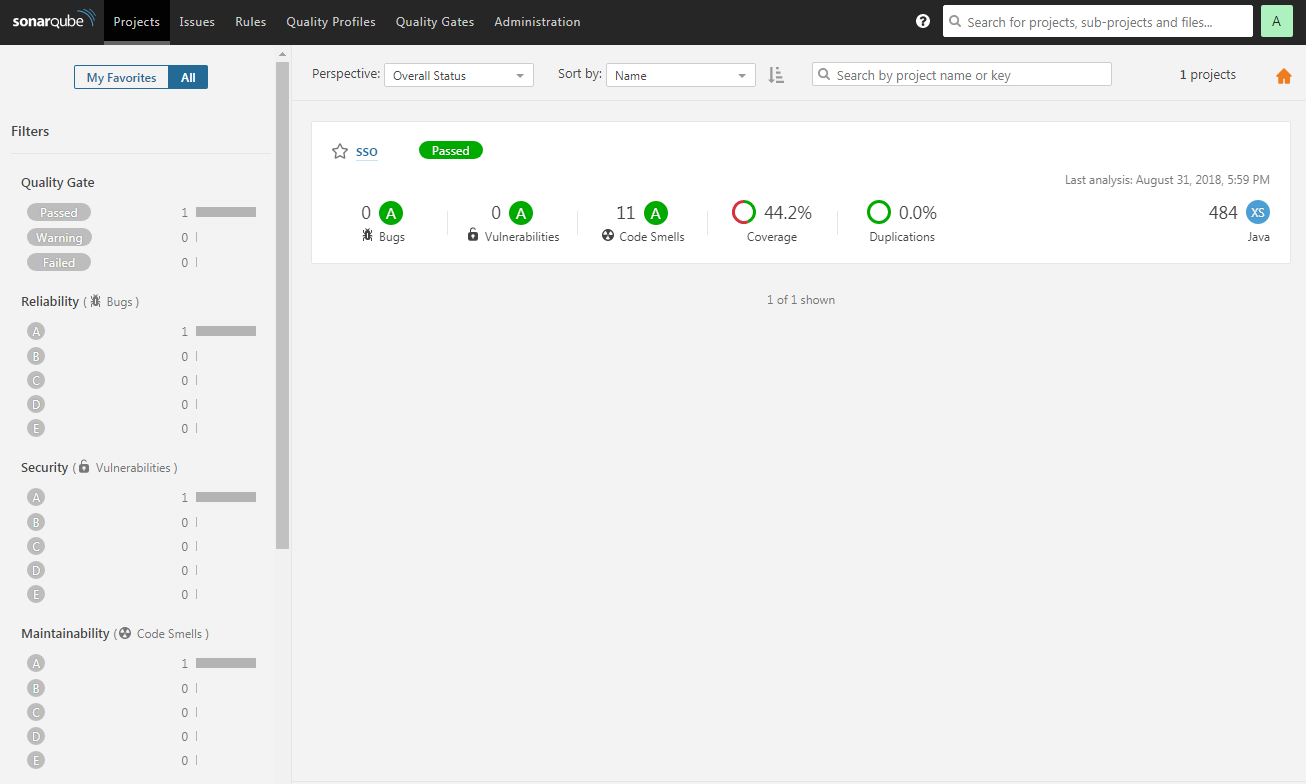
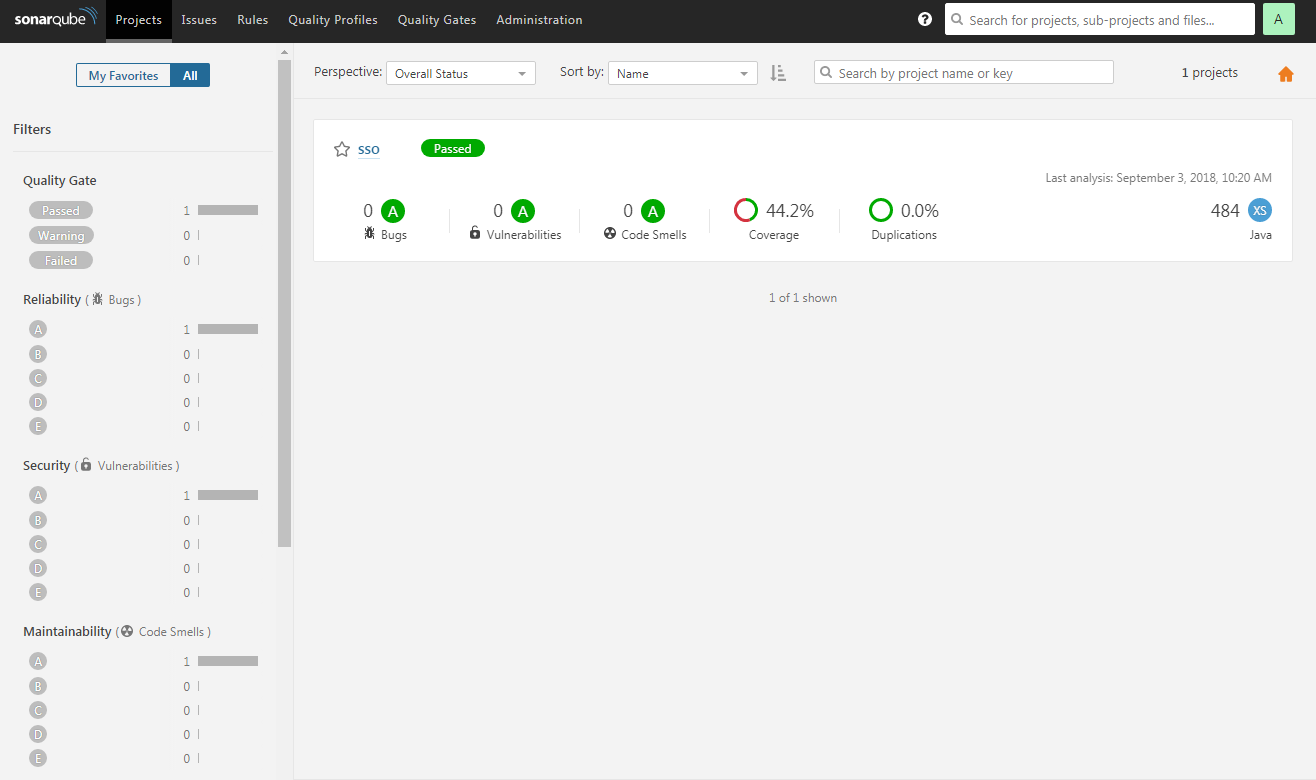
Refactor according to SonarQube

diff --git a/Self/sso/src/main/java/com/patrick/sso/service/face/impl/ms/Authentication.java b/Self/sso/src/main/java/com/patrick/sso/service/face/impl/ms/Authentication.java
@@ -7,18 +7,18 @@ package com.patrick.sso.service.face.impl.ms;
  */
 public class Authentication {
 
-	public static final String SUBSCRIPTION_KEY = "********************";
+	public static final String SUBSCRIPTION_KEY = "*** Subscription Key ***";
 
 	public enum PersonGroup {
 		
 		COLLEAGUE("colleague", 
-				new Person[] { new Person("Patrick", "********************"),
-						new Person("Bella", "********************"),
-						new Person("Lesley", "********************"),
-						new Person("Georgio", "********************"),
-						new Person("Angie", "********************"), 
-						new Person("Kevin", "********************"), 
-						new Person("Sue", "********************") });
+				new Person[] { new Person("Patrick", "*** Patrick Id ***"),
+						new Person("Bella", "*** Bella Id ***"),
+						new Person("Lesley", "*** Lesley Id ***"),
+						new Person("Georgio", "*** Georgio Id ***"),
+						new Person("Angie", "*** Angie Id ***"), 
+						new Person("Kevin", "*** Kevin Id ***"), 
+						new Person("Sue", "*** Sue Id ***") });
 
 		private String personGroupId;
 		private Person[] persons;

diff --git a/Self/sso/src/main/java/com/patrick/sso/service/profileid/ProfileIdService.java b/Self/sso/src/main/java/com/patrick/sso/service/profileid/ProfileIdService.java
@@ -30,12 +30,12 @@ public class ProfileIdService {
 
 	public ResponseWrapper getProfileId(InputStream inputStream) {
 		String jsonString = CommonUtils.inputStreamToString(inputStream);
-		LOGGER.debug("JSON String is " + jsonString);
+		LOGGER.debug("JSON String is {}.", jsonString);
 
 		try {
 			return getProfileId(new JSONObject(jsonString));
 		} catch (JSONException e) {
-			LOGGER.error("Exception occurs in ProfileService.getProfileId", e);
+			LOGGER.error("Exception occurs in ProfileService.getProfileId.", e);
 			return ResponseWrapper.buildFailureResponse(400, ResponseWrapper.INVALID_JSON_FORMAT);
 		}
 	}

diff --git a/Self/sso/src/main/java/com/patrick/sso/service/face/impl/ms/FaceLoginServiceImpl.java b/Self/sso/src/main/java/com/patrick/sso/service/face/impl/ms/FaceLoginServiceImpl.java
@@ -47,7 +47,7 @@ public class FaceLoginServiceImpl extends AbstractFaceLoginService {
 		}
 
 		String faceId = resp.getMsg();
-		LOGGER.debug("Face id is " + faceId);
+		LOGGER.debug("Face id is {}.", faceId);
 
 		resp = identify(faceId);
 		if (!resp.isSuccess()) {
@@ -55,7 +55,7 @@ public class FaceLoginServiceImpl extends AbstractFaceLoginService {
 		}
 
 		String personId = resp.getMsg();
-		LOGGER.debug("Person id is " + personId);
+		LOGGER.debug("Person id is {}.", personId);
 
 		String token = UUID.randomUUID().toString();
 		tokenProfileIdMap.put(token, personId);

diff --git a/Self/sso/src/main/java/com/patrick/sso/controller/face/FaceLoginController.java b/Self/sso/src/main/java/com/patrick/sso/controller/face/FaceLoginController.java
@@ -50,7 +50,7 @@ public class FaceLoginController {
 
 	private ResponseWrapper loginByFace(HttpServletRequest req) throws IOException {
 		String lang = CommonUtils.parseQueryString(req.getQueryString()).get("lang");
-		LOGGER.debug("Receive parameter: lang = [" + lang + "]");
+		LOGGER.debug("Receive parameter: lang = [{}]", lang);
 		try (ServletInputStream inputStream = req.getInputStream()) {
 			if (inputStream.isFinished()) {
 				return ResponseWrapper.buildFailureResponse(400, "Binary data of image is missing");

diff --git a/Self/sso/src/main/java/com/patrick/sso/service/HttpUtils.java b/Self/sso/src/main/java/com/patrick/sso/service/HttpUtils.java
@@ -31,7 +31,7 @@ public class HttpUtils {
 
 	public static String getResponseEntity(HttpEntity entity) throws IOException {
 		String responseEntity = EntityUtils.toString(entity);
-		LOGGER.debug("Response entity is " + responseEntity);
+		LOGGER.debug("Response entity is {}.", responseEntity);
 		return responseEntity;
 	}
 
